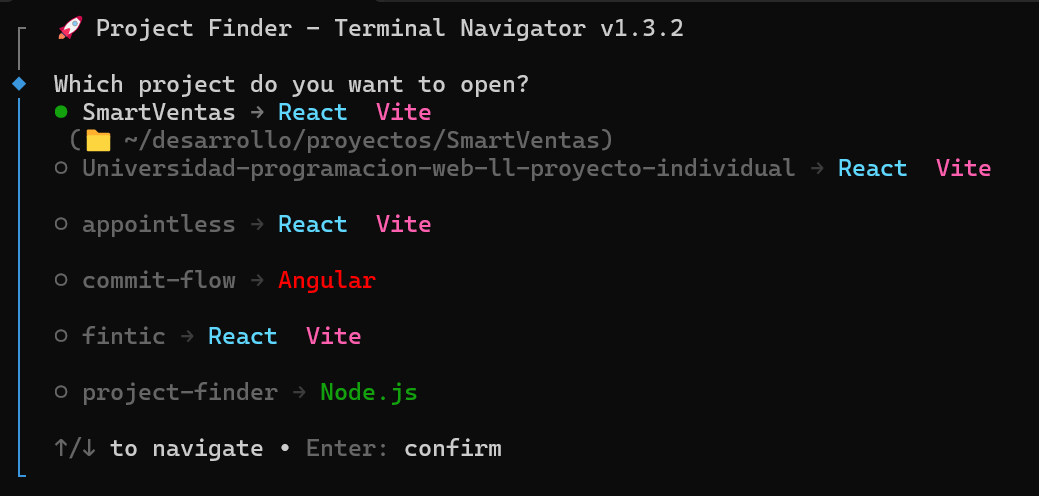
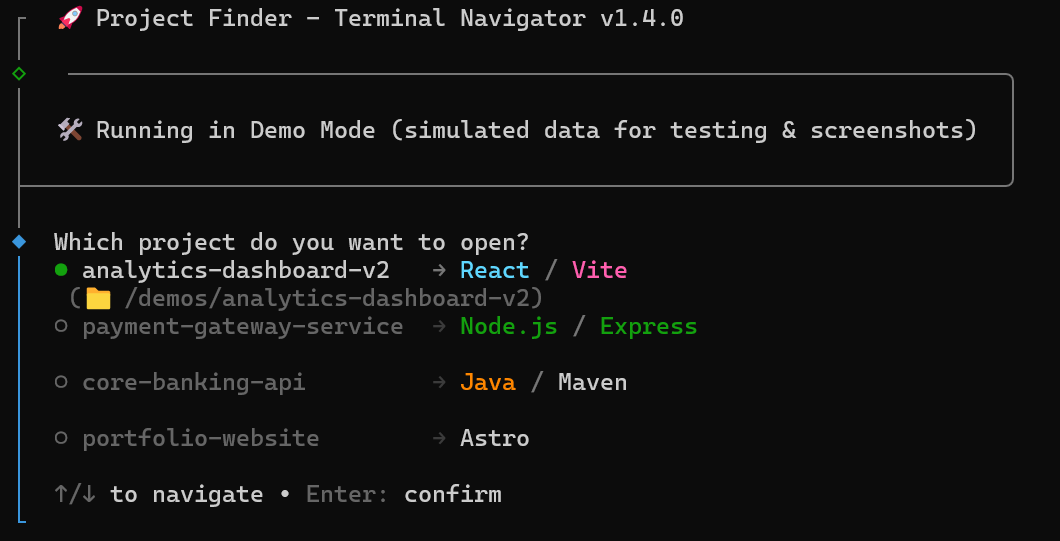
docs: update README with v1.4.0 architecture, demo mode, and pnpm installation syntax

diff --git a/README.md b/README.md
@@ -1,45 +1,77 @@
 # 🚀 Project Finder CLI
 
-**Project Finder** is an interactive terminal utility designed to streamline the developer workflow. It scans, identifies technology stacks, and enables instant navigation between projects in Linux/WSL2 environments.
+**Project Finder** is an interactive terminal utility designed to streamline developer workflows. It automatically scans your local directories, identifies project technology stacks, and enables instant project navigation directly from your terminal.
 
-![Version](https://img.shields.io/badge/version-1.3.2-cyan)
-![Node.js](https://img.shields.io/badge/Node.js-20.x-green)
+![Version](https://img.shields.io/badge/version-1.4.0-cyan)
+![Node.js](https://img.shields.io/badge/Node.js-%3E%3D18.0.0-green)
 ![License](https://img.shields.io/badge/license-MIT-blue)
 
 ---
 
 ## ✨ Features
 
-- 🔍 **Intelligent Scanning:** Automatically detects valid projects (React, Vite, Java, Node.js).
-- 🎨 **Rich UI:** High-fidelity visual branding with dynamic ANSI colors per technology.
-- 📋 **One-Click Navigation:** Automatically copies the `cd` command to the system clipboard.
-- 🐧 **WSL2/Ubuntu Optimized:** Built to integrate seamlessly with Linux development ecosystems.
+- 🔍 **Automated Workspace Scanning:** Recursively identifies valid development projects in your workspace (`~/desarrollo/proyectos`).
+- 🎨 **Dynamic Tech Stack Formatting:** High-fidelity visual identifiers for **React**, **Vite**, **Angular**, **Java**, and **Node.js** with ANSI colors and formatted stack separators.
+- 🧪 **Built-in Demo Mode:** Run simulated project sweeps without accessing local filesystem data—ideal for testing and visual previews.
+- 📋 **Seamless Clipboard Integration:** Copies the navigation command (`cd "/path/to/project"`) straight to your system clipboard.
+- 🌐 **Cross-Platform:** Designed for native environments including **Windows (GitBash / PowerShell)**, **WSL2**, and **Linux**.
+
+---
 
 ## 🛠 Built With
 
-- **Node.js:** Core runtime.
-- **@clack/prompts:** Modern, interactive terminal UI components.
-- **clipboardy:** System-level clipboard management.
+- **[Node.js](https://nodejs.org/):** Core runtime (ES Modules).
+- **[@clack/prompts](https://www.npmjs.com/package/@clack/prompts):** Interactive CLI prompt framework.
+- **[clipboardy](https://www.npmjs.com/package/clipboardy):** Cross-platform OS clipboard access.
+
+---
+
+## 🏗 Architecture & Layered Design
+
+The project strictly follows a clean, decoupled architecture:
+
+```text
+src/
+├── core/         # Business logic (Directory scanner & mock data)
+├── ui/           # Presentation layer (Clack prompts & ANSI color formatting)
+├── utils/        # System I/O services (Clipboard management & versioning)
+└── index.js      # CLI Entrypoint & Orchestrator
+```
+
+--- 
 
 ## 🚀 Installation & Usage
 
 ### 1. Clone the repository
 ```bash
-  git clone [https://github.com/ErnestoIngles/project-finder.git](https://github.com/ErnestoIngles/project-finder.git)
-  cd project-finder
+git clone https://github.com/ErnestoIngles/project-finder.git
+cd project-finder
 ```
 
-### 2. Install dependencies and set up globally
+### 2. Install dependencies & link globally
 ```bash
-  pnpm install
-  pnpm install -g .
+# Install project dependencies
+pnpm install
+
+# Link CLI tool globally in your system
+pnpm add --global .
 ```
 
-### 3. Run it!
-Simply type the following from anywhere in your terminal:
+**Note for Windows / GitBash users:** Make sure your `pnpm` global bin path is in your System `PATH` so `pf` can be executed from any directory.
+
+### 3. Run from anywhere!
+
+Simply type the command from any terminal location:
 ```bash
-  pf
+pf
 ```
+
+Or run in **Demo Mode**:
+```bash
+pf demo
+```
+
+---
 
 ## 📸 Screenshots
 
@@ -55,4 +87,5 @@ Simply type the following from anywhere in your terminal:
  * Persistence Roadmap: Future versions will include a config.json for customizable scan paths and ignore-lists.
 
  --- 
+
 Created with ❤ by [ErnestoIngles](https://github.com/ErnestoIngles)
